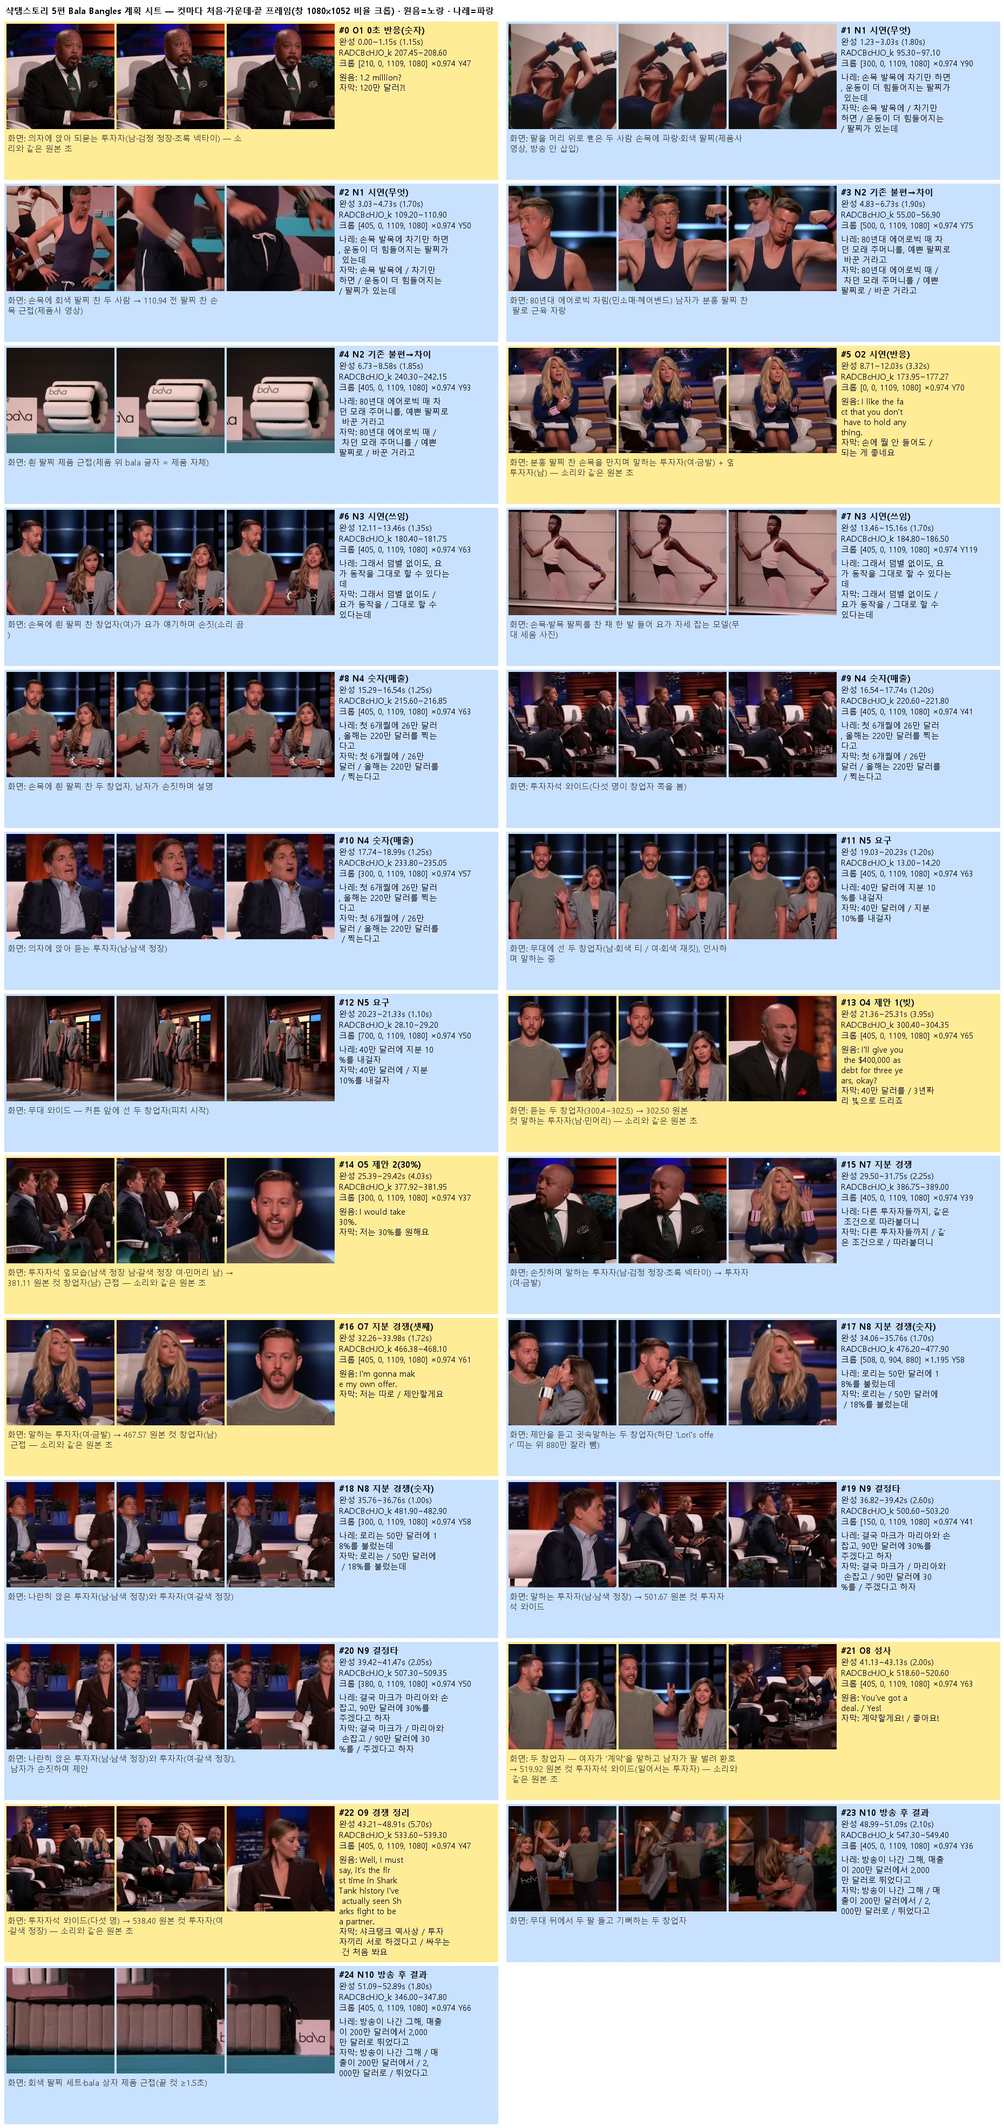
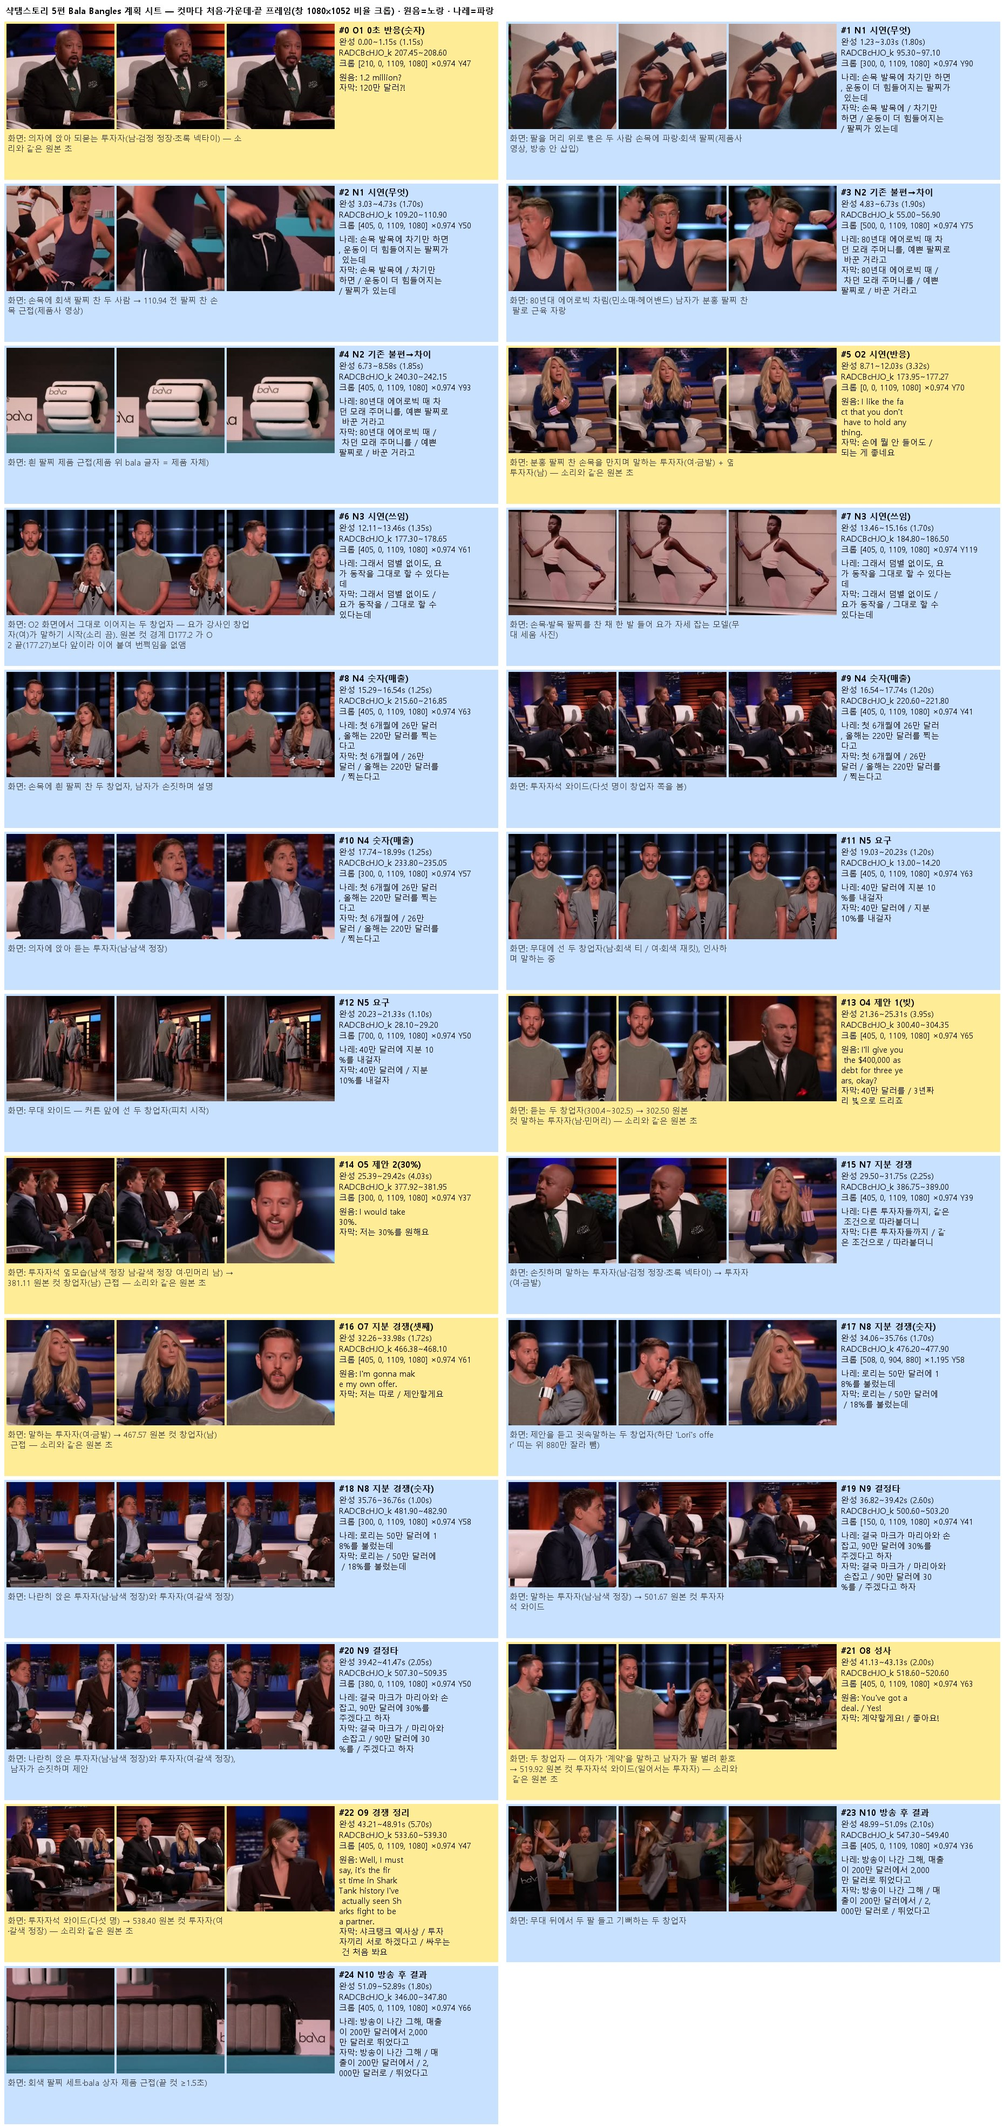
샥탬스토리 5편 Bala Bangles 렌더 1판 — 지훈 speed 1.1(원 8.52자/초), O2 끝 번쩍임→다음 컷 이어붙임, 돈 이모지 얼굴 피함, 원리서 §9 두 줄 (관제 097)
Claude-Session: https://claude.ai/code/session_01H2Q2DLBQbMaeW9JF4tgzZW

Changed region(s): [[0.0, 0.2497, 0.343, 0.3122]]

diff --git a/channel/foreignshowshow/5편_BalaBangles/plan/build_plan.py b/channel/foreignshowshow/5편_BalaBangles/plan/build_plan.py
@@ -57,7 +57,7 @@ LINES = [
     {"id": "N3", "fn": "시연(쓰임)", "kind": "tts", "text": "그래서 덤벨 없이도, 요가 동작을 그대로 할 수 있다는데",
      "tts": "그래서 덤벨 없이도, 요가 동작을 그대로 할 수 있다는데",
      "caps": ["그래서 덤벨 없이도", "요가 동작을", "그대로 할 수 있다는데"], "facts": ["f5"],
-     "shots": [("RAD", 180.40, 1.35, cx(FULL, 405), "손목에 흰 팔찌 찬 창업자(여)가 요가 얘기하며 손짓(소리 끔)"),
+     "shots": [("RAD", 177.30, 1.35, cx(FULL, 405), "O2 화면에서 그대로 이어지는 두 창업자 — 요가 강사인 창업자(여)가 말하기 시작(소리 끔). 원본 컷 경계 ≈177.2 가 O2 끝(177.27)보다 앞이라 이어 붙여 번쩍임을 없앰"),
                ("RAD", 184.80, 1.70, cx(FULL, 405), "손목·발목 팔찌를 찬 채 한 발 들어 요가 자세 잡는 모델(무대 세움 사진)")]},
     {"id": "N4", "fn": "숫자(매출)", "kind": "tts", "text": "첫 6개월에 26만 달러, 올해는 220만 달러를 찍는다고",
      "tts": "첫 육 개월에 이십육만 달러, 올해는 이백이십만 달러를 찍는다고",
@@ -333,8 +333,8 @@ def main():
            "effects": [
                {"line": "O1", "kind": "red_circle", "at": [610, 684], "size": 330, "stroke": 8, "t": [0.0, 1.25],
                 "why": "벤치 0초 빨간 원(투자자 얼굴) — 207.9초 크롭 x=210 프레임에서 얼굴 중심(창 610,250 → 완성 610,684)"},
-               {"line": "N9", "kind": "emoji", "emoji": "💸", "at": [540, 640], "size": 170, "t": [1.2, 3.4],
-                "why": "벤치 38.6~41.1초 날개 돈다발 — 마크(완성 x≈146)·마리아(x≈936) 얼굴 사이 배경 위, 얼굴 안 가림(B5)"}],
+               {"line": "N9", "kind": "emoji", "emoji": "💸", "at": [540, 640], "size": 170, "t": [2.3, 4.0],
+                "why": "벤치 38.6~41.1초 날개 돈다발 — N9 둘째 컷(마크 x≈146·마리아 x≈936) 동안만, 두 얼굴 사이 배경 위(B5). 1차 렌더에서 첫 컷(마크 가운데) 얼굴을 가려 시각 옮김"}],
            "check": {"cut_count": len(shots), "cut_median_plan": _median([s["dur"] for s in shots]), "first_cut": shots[0]["dur"],
                      "last_cut": shots[-1]["dur"], "max_scale": max(s["scale"] for s in shots),
                      "est_total_sec": total, "bench_total": 50.467, "same_src_close_B13": same_src_close(shots), "gap_lt3_any_order": within3_any(shots),

diff --git a/channel/foreignshowshow/칼카피_원리.md b/channel/foreignshowshow/칼카피_원리.md
@@ -3,36 +3,60 @@
 > 사장님 2026-10-18: "대충하지 말고 칼카피 잘해서 **원리 다 적어놓고 계속 쌓으면서** 다음 편 만들 때도 동일하게 축적해서 **우리 자산으로** 만들면서 하는 거야."
 > 규칙: ① 원리는 **실측 근거(편 id·시각·숫자)**와 같이 적는다 — 느낌 금지 ② 기계가 읽는 값은 `tools/calcopy/shark/rules.json`(렌더·검사가 읽는 주인)에, 이 문서는 "왜·어떻게"를 ③ 편을 만들 때마다 §9 '편마다 배운 것'에 쌓고, 확인된 것은 해당 절로 올린다(그 자리를 고친다, 덧붙이기만 하지 않는다) ④ 다음 편은 이 문서 + rules.json 으로 만든다(편마다 새로 정하지 않는다).
 > 검사: `tools/calcopy/shark/compare_bench.py`(벤치 나란히 기준표) — 기준표 칸 = 아래 절 번호.
-> 마지막 갱신: 2026-10-18 (뼈대 — 품질 칼카피 담당이 실측으로 채우는 중)
+> 마지막 갱신: 2026-10-18 04시 (품질 칼카피 담당: §0·2·3·4·5·6 실측으로 채움)
 
-## 0. 한 줄 요약 (채워지는 중)
-투자자의 놀란 얼굴(빨간 원+큰 반응 자막)로 0초에 결말을 던지고 → 핵심어만 색으로 터뜨린 큰 자막으로 시연·불편·숫자를 빠르게 → 원음 투자 경쟁 → 방송 후 결과로 닫는다.
+## 0. 한 줄 요약 — 확인됨(QMJ 10fps·30fps 실측 + 8편 256칸 판독, 10-18)
+0초에 놀란 투자자 얼굴(빨간 실선 원 + ×1.25 반응 자막)로 결말을 던지고 → **자막 한 칸마다 덩어리 하나를 형광색으로** 터뜨리며 시연·불편·숫자를 빠르게 → **약 5~6초마다 한 번 꾸밈(원·화살표·돈다발)이나 색 번쩍(+띠링)** 이 와우 포인트를 찍고 → 원음 투자 경쟁 → 방송 후 결과로 닫는다. 벤치 QMJ 와우(번쩍+꾸밈 등장, 0.5초 묶음) = 분당 15.4회.
+- 기계값 = `tools/calcopy/shark/rules.json`(한 곳). 검사 = `tools/calcopy/shark/compare_bench.py <벤치> <우리> <폴더> --tag N차`(기준표 10칸).
 
 ## 1. 박자(대본 흐름) — 확인됨(8편 판독·1편 줄 표)
 0~3초 결말 반응(원음, 빨간 원) → 시연(나레) → 기존 불편(나레+원음) → 숫자 → 지분 경쟁(원음 교대, 돈다발) → 방송 후 결과(나레, 확인된 사실만).
 - 나레 = 반말 전언체(~는데/~다고), 원음 = 영어 + 한국어 번역 자막. 벤치 나레 사실은 그대로 믿지 않는다(STORMBAG 정정 3건, 인수인계 §3-6).
 
-## 2. 시작 훅 (0~3초) — 실측 일부
-- 빨간 실선 원 0~2초 6/8편, 반지름 178~217·선 12~15(프리셋 실측). 대상 = 놀란 투자자 얼굴.
-- 반응 자막은 ×1.25 크게(6/8편 18칸). 색·번짐·등장 움직임: _채우는 중_
-- 효과음: _미측정_
+## 2. 시작 훅 (0~3초) — 확인됨
+- **빨간 실선 원**: QMJ 0.000~0.567(첫 컷 내내, 등장 움직임 없음·컷과 같이 사라짐) 중심 (500,676)·바깥 반지름 215·안 202(선 13)·색 [247,42,48]. 8편 중 6편.
+- **반응 자막 ×1.25**(85px): '뭐라고 ?!' 줄 전체 민트. 6/8편 18칸.
+- **둘째 컷 초록 아래 화살표**: QMJ 0.567~1.267, 131×197, 위아래 ±9px·0.6초 주기, 녹색 [12,250,4] 입체 테+번짐 — 제품(자루)을 가리킴. 8편 중 3편(QMJ·kmQ 0.0·2jJ 29.6).
+- 효과음: 0초 원·화살표 자리엔 따로 들리는 소리 판독 안 됨(스펙트로그램 QMJ 0.0~0.5 은 원본 넓은 소리) — 넣지 않음.
 
-## 3. 자막 꼴 — 확인됨(프리셋 실측)
-GmarketSansBold 68px, 1줄 잉크 929~988(창 가운데), 나레·번역 같은 꼴. 흰 글자 오른쪽 아래 옅은 그림자. 자막 바뀔 때 가로 흐림 약 2프레임.
+### 2-1. 제목 길이 — 확인됨(8편 제목 2줄 눈 판독 × 프리셋 size_cap)
+- 긴 줄 글자 수(공백 포함) 12 → 100.5px(QMJ) · 10~11 → 115~135px · 13·15 는 '산다 vs 안산다' 꼴(114). **규칙: 제목 줄당 최대 12자**(rules.json title.line_chars_max) — 넘으면 글자가 벤치보다 작아진다(우리 4편 88.5·6편 79.5px).
 
-## 4. 강조 낱말(와우 포인트) — _채우는 중_
-- 7색: 노랑[252,226,61]·주황[245,155,72]·빨강[235,78,79]·초록[66,252,81]·민트[64,248,240]·파랑[67,165,246]·분홍[242,98,146] + 같은 색 번짐 빛.
-- 어느 낱말을 고르나(숫자·핵심 명사·감탄…, 몇 %), 어느 색을 어디에: _8편 296칸 세는 중_
-- 예(QMJ): "3분내로"=민트 · "15L 물을 빨아들이는"=초록 · "허리가 작살이 나죠"=초록 · "물만 부으면"=분홍 · "2억 7천만원"=노랑.
+## 3. 자막 꼴 — 확인됨(프리셋 실측 + 전체 해상도 크롭)
+GmarketSansBold 68px, 1줄 잉크 928~987(창 가운데), 두 줄 895~953/963~1022, 나레·번역 같은 꼴.
+- 흰 글자: 오른쪽 아래 검정 그림자(dx3·dy3·흐림 6, α0.75). 색 글자: 같은 색 번짐(글자 밖 2~10px 평탄, 25~30px 에서 바탕 — 어두운 바탕 QMJ 0.25·18.85·24.45 거리별 색 투영) + 오른쪽 아래 2px 어두운 테.
+- **넘김 = 2프레임 가로 흐림**(QMJ 0.5~0.7·9.0~9.2 30fps): 컷 뒤 1프레임 옛 자막 그대로 → 옛 자막 가로 흐림 1프레임 → 새 자막 가로 흐림 1프레임 → 선명. compare_bench 잣대(잉크 급감)로 벤치 칸의 55%.
+- 우리 재현 = `shark/caption_style.caption_image`(QMJ 8.05 '이걸로 대체할 수 있다고' 잉크 928~987·폭 710 vs 우리 928~987·699).
 
-## 5. 효과 — _채우는 중_
-실선 원 6/8 · 점선 원 4/8 · 화살표(분홍·빨간 곡선·초록) · 날개 돈다발 3/8(투자 제안 줄) · 색 번쩍(초록·빨강·노랑) 8/8 편당 2~10회 컷 넘김. 언제·무엇에·크기·움직임: _10fps 실측 중_
+## 4. 강조 낱말(와우 포인트) — 확인됨(8편 256칸 판독 `preset/_hand/emph_read.json`)
+- **색 있는 칸 96%**(246/256), 한 칸에 색 덩어리 **하나** 97%(238/246) — 두 덩어리는 8칸뿐.
+- **줄 전체 한 색 39%**(96칸): 2~5자 칸은 34/34 전부, 6~7자 23/36, 9자 이상 29/169. 반응 한 마디(감탄·질문)는 38칸 중 34칸 줄 전체.
+- **부분 색 61%**(150칸): 덩어리 종류 동작(서술어·동사구) 73(49%) · 명사 40(27%) · 숫자 29(19%). 자리 뒤 75·앞 55·가운데 15. 색 글자 비율 중앙 0.58(p25 0.50·p75 0.70).
+- 숫자가 있으면 숫자 덩어리(단위·뒤 낱말 포함 '2억 7천만원에'·'4명의 투자자가'·'15kg').
+- **색 배정**: 7색 칸 수 초록 50·노랑 46·빨강 44·민트 42·주황 33·분홍 21·파랑 18. 앞 칸과 같은 색 6%(15/236) = 거의 안 겹침. 내용과 색의 규칙은 없음(같은 편 안에서도 고르게 돎).
+- 자동 = `shark/emph.py <편 폴더>` → 대본 줄마다 `emph[{cap,span,color}]`(사람이 고친 how=hand 칸은 그대로). 벤치 246칸에 돌린 대조: 전체/부분 판단 85% · 덩어리 70% 겹침 57%.
 
-## 6. 효과음·배경음 — _미측정_
+## 5. 효과 — 확인됨(QMJ 10fps·30fps, 8편 출현은 프리셋 channel_rules.effects)
+| 꾸밈 | QMJ 시각 | 모양·크기 | 움직임 | 박자(무엇에) | 8편 |
+|---|---|---|---|---|---|
+| 빨간 실선 원 | 0.000~0.567 | 지름 430·선 13 | 없음 | 0초 결말 반응 얼굴 | 6/8 |
+| 초록 아래 화살표 | 0.567~1.267 | 131×197 | 위아래 ±9px/0.6초, 끝 3프레임 줄며 사라짐 | 시연 대상(제품) | 3/8 |
+| 빨간 점선 원 | 9.3~11.6(컷 9.1 +0.2) | 반지름 ~320·선 ~22·점 ~8 | 시계 방향 ~120°/초, 대상 따라감 | 기존 불편(허리 아픈 삽질) | 4/8 |
+| 분홍 위 화살표(도트) | 12.017~13.82 | 151×269 검정 테 | 튀어나옴(폭 ×1.38→1.11→0.82→1.0)·끝 3프레임 | 무게 숫자 조각 | 2/8 |
+| 빨간 곡선 화살표 | 20.367~22.9(컷 넘어 유지) | 223×193 손그림 | 끝 쪽으로 28px 찌르기/0.37초 | 놓기만 하면 둑(해결) | 1/8 |
+| 날개 돈다발 💸(Noto) | 38.7~40.0 | 371×331 중심 (537,1189) | 튀어나옴·끝 2프레임 | 투자 제안 금액 줄(초록 번쩍과 같은 프레임) | 3/8 |
+| 색 번쩍 | 7.1 초·11.2 빨·28.1 초·38.7 초·44.4 빨·45.7 초·49.3 빨 | 창 안 전체 색 덮기 | 컷 프레임에 α0.55~0.59 → 0.45초에 0(선형) | 장면 넘김·와우(돈 제안·결정·거래 성공·통증·취소) | 8/8 편당 4~10회(분당 9.5) |
+- 우리 재현 = `shark/fx.py`(sprite 모양·pose 움직임·build_layer 한 층), 자리는 편마다 `재료.json effects[{line,kind,at,t}]`.
+
+## 6. 효과음·배경음 — 확인됨(사건 스펙트로그램 눈 판독 `fx_bench.py specev`, 20ms RMS)
+- **번쩍 직후 0.1~0.4초 '띠링'**(높이 있는 소리 2.6~5.5kHz 가로 줄 0.4~0.7초): QMJ 7.1·38.7·44.4, kmQ 4.7·15.0·32.6, 2jJ 23.4 — 본 11번 중 7번. compare_bench 잣대로 QMJ 번쩍 뒤 띠링 62%.
+- **빨간 곡선 화살표 = 내려가는 슬라이드 소리**(QMJ 20.4~20.9 휘는 줄). 우리 팩엔 슬라이드가 없어 휙(whoosh)으로 대신 — 다른 점(보고됨).
+- 우리 = 팩21_사장님 ding(0.42초 지속, 팩 중 지속이 벤치에 가장 가까움; 높이 9.3kHz 는 벤치보다 높음)·whoosh, 크기 = sfx_pack 칸 목표 크기.
+- **배경음 깔림 8/8**: 20ms RMS p10 이 중앙보다 6~10dB 아래(QMJ −13.6/−7.6) — 쉼에도 바닥이 안 꺼짐. 우리 1차 −12.3/−8.5 로 같은 꼴(BGM sweets 유지). 곡 종류: 짧은 음 높이 있는 소리가 규칙적으로(스펙트로그램 가로 점선) — 같은 곡 판정은 못 함.
 
 ## 7. 장면 고르기
 - 원음 줄 화면 = 같은 원본 시각에 말하는 본인(어긋남 0.1초 넘으면 고침) — 1편 확정.
-- 벤치는 실제 현장(홍수 등) 장면으로 실감을 낸다 — 방송 클립에 없으면 현장 1080p 재료를 따로 찾는다.
+- 벤치는 실제 현장(홍수 등) 장면으로 실감을 낸다(QMJ 5.85~7.35 물 찬 길에서 모래주머니) — 방송 클립에 없으면 현장 1080p 재료를 따로 찾는다(1편: Dan Robinson St. Louis 2015 VOUMOUQqr0Y 55·80초, 워터마크 크롭).
 
 ## 8. 소리 — 확정
 목표 −9.0 LUFS·최고점 ≤ −0.5 dBFS(벤치는 −7~−8·클리핑, 따라 깨뜨리지 않음). 성우 지훈(벤치 f0 116Hz 최근접).
@@ -42,7 +66,10 @@ GmarketSansBold 68px, 1줄 잉크 929~988(창 가운데), 나레·번역 같은 
 - 3편 DropStop: 원음 클립에 더빙 트랙이 섞임 → 영어 원음 트랙(140-7) 지정.
 - 1편 프리셋판(10-18 새벽): 제목 노랑 214~304/흰 322~408(벤치 211~304/318~407)·자막 68px 잉크 936~994(벤치 929~988) 맞음. 제목이 길면 글자가 작아진다 — 4편 88.5·6편 79.5px vs 벤치 100~135 → **제목은 줄당 글자 수를 벤치 범위로 짧게**(규칙 수치는 rules.json 에 재는 중).
 - 지훈 TTS 속도 1.25 = 원 말속도 9.46(1편)·9.42(2편)자/초로 벤치(7.7~8.8)보다 빠름 → atempo 0.85~0.87 로 늦춤(하한 0.85). 늦추기 폭을 줄이려면 TTS speed 를 낮춰 합성(5편부터 1.1 시험 → 실측으로 확정).
-- B13(±3초 재사용) 검사가 같은 원음 줄 안에서 방송 편집 그대로 앞으로 이어지는 컷을 재사용으로 잡는 오탐(2편) → 검사 수리 대상.
+- B13(±3초 재사용) 검사가 방송 편집 그대로 앞으로 이어지는 컷을 재사용으로 잡던 오탐(2편 8건) → **수리됨**: shark/check.forward_runs(화면에서 바로 이어지고 원본에서 앞으로만 가면 한 컷으로 묶음) → 2편 8→0, 되감아 재사용·떨어진 줄 재사용은 여전히 잡음(사보타주 2건).
 - 원음 컷 끝을 렌더러가 늘이면 원본 장면 경계를 넘어 남의 얼굴이 2~3프레임 번쩍 → 원음 컷 끝 = 원본 장면 경계 −0.1초(2편).
-- 원음 창 받아쓰기 검사는 영어를 한글로 옮겨 적어(예 "댓츠 프리티 쿨") 판정 불가 → 원음은 영어 받아쓰기로 검사.
+- 원음 창 받아쓰기 검사는 영어를 한글로 옮겨 적어(예 "댓츠 프리티 쿨") 판정 불가 → **수리됨**: shark/check 영어 요청문(EN_ASR_PROMPT)·2모델·대본 en 과 낱말 일치 ≥50%(orig_match) — 6편 영어 받아쓰기 6줄 95~100% ○.
 - 4편 Spikeball: 짧은 쉼(0.137초)에 말 꼬리가 섞이면 쉼 늘리기가 말소리를 반복 → 엔진 수리(75d27994d).
+- 5편 Bala(10-18): 지훈 TTS speed 1.1 = 원 말속도 8.52자/초(1.25 의 9.4 대비 −9%) — 목표 7.1 이면 여전히 atempo 하한 0.85 에 걸려 출력 7.62자/초. 0.85 안 걸리게 하려면 speed ≈1.0(추정, 미측정).
+- 5편: 원음 줄 끝이 원본 장면 경계에 붙으면(말 꼬리가 경계까지 감) 줄 사이 gap 0.08 늘임이 다음 장면 2프레임을 보임 → 다음 나레 줄 첫 컷을 같은 원본 시각부터 이어 붙여(무음) 번쩍임을 이음으로 바꿈 + 대본 render.gap 0.
+- 6편 LARQ(10-18): 원음 줄 끝 컷을 렌더러가 줄 사이(gap 0.08)만큼 늘여 다음 원본 샷이 1~2프레임 비침(L1 101.967·L6 177.877·L11 440.437초 경계, 30fps 프레임차로 실측). 원음 끝을 당기면 말끝이 잘림(L1 101.85 → 'Shark' 까지만) → **대본 render.gap 0.03** + 원음 안 컷 경계는 실측 경계 ±0.012초로 건너뜀. 원음 자막은 cap_at(쉼 경계에 맞춘 낱말 시각).

diff --git a/channel/foreignshowshow/5편_BalaBangles/plan/계획.md b/channel/foreignshowshow/5편_BalaBangles/plan/계획.md
@@ -5,7 +5,7 @@
 - 접촉 시트: `plan/계획_시트.jpg` (컷마다 처음·가운데·끝, 창 1080x1052 비율 크롭)
 - 길이 추정 52.79초(7.1자/초) · render --plan 8.4자/초 추정은 work/plan/컷표.md · 벤치 50.47초
 - 컷 25개 · 실제 컷(원본 편집 경계 포함) 중앙 1.32초(벤치 1.27) · 첫 컷 1.15 · 끝 컷 1.8 · 확대 최대 ×1.195
-- B13 같은 소스 3초 안 재사용 [] / 순서 무관 3초 안 [] · 번쩍 조각(<0.3초) [] · 프레임 평균 Y 최저 36
+- B13 같은 소스 3초 안 재사용 [] / 순서 무관 3초 안 [[5, 6, 0.03]] · 번쩍 조각(<0.3초) [] · 프레임 평균 Y 최저 36
 - 벤치 나레 3어절 겹침 [] · 자막 조각 최대 13자
 
 ## 줄 ↔ 컷
@@ -18,7 +18,7 @@
 | N2 | 80년대 에어로빅 때 차던 모래 주머니를, 예쁜 팔찌로 바꾼 거라고 | 55.0~56.9 [500, 0, 1109, 1080] ×0.974 Y75 | 80년대 에어로빅 차림(민소매·헤어밴드) 남자가 분홍 팔찌 찬 팔로 근육 자랑 |
 |  | 〃 | 240.3~242.15 [405, 0, 1109, 1080] ×0.974 Y93 | 흰 팔찌 제품 근접(제품 위 bala 글자 = 제품 자체) |
 | O2 | I like the fact that you don't have to hold anything. | 173.95~177.27 [0, 0, 1109, 1080] ×0.974 Y70 | 분홍 팔찌 찬 손목을 만지며 말하는 투자자(여·금발) + 옆 투자자(남) — 소리와 같은 원본 초 |
-| N3 | 그래서 덤벨 없이도, 요가 동작을 그대로 할 수 있다는데 | 180.4~181.75 [405, 0, 1109, 1080] ×0.974 Y63 | 손목에 흰 팔찌 찬 창업자(여)가 요가 얘기하며 손짓(소리 끔) |
+| N3 | 그래서 덤벨 없이도, 요가 동작을 그대로 할 수 있다는데 | 177.3~178.65 [405, 0, 1109, 1080] ×0.974 Y61 | O2 화면에서 그대로 이어지는 두 창업자 — 요가 강사인 창업자(여)가 말하기 시작(소리 끔). 원본 컷 경계 ≈177.2 가 O2 끝(177.27)보다 앞이라 이어 붙여 번쩍임을 없앰 |
 |  | 〃 | 184.8~186.5 [405, 0, 1109, 1080] ×0.974 Y119 | 손목·발목 팔찌를 찬 채 한 발 들어 요가 자세 잡는 모델(무대 세움 사진) |
 | N4 | 첫 6개월에 26만 달러, 올해는 220만 달러를 찍는다고 | 215.6~216.85 [405, 0, 1109, 1080] ×0.974 Y63 | 손목에 흰 팔찌 찬 두 창업자, 남자가 손짓하며 설명 |
 |  | 〃 | 220.6~221.8 [405, 0, 1109, 1080] ×0.974 Y41 | 투자자석 와이드(다섯 명이 창업자 쪽을 봄) |
@@ -46,5 +46,5 @@
 - N9: 날개 돈다발 이모지(90만 달러) (벤치 38.6~41.1초)
 - 자막: 흰 글자+검정 테두리, 핵심어 형광(민트·초록·빨강·분홍) (벤치 전 구간)
 - 좌표 적은 것(렌더러가 그림): O1 red_circle at [610, 684] size 330 — 벤치 0초 빨간 원(투자자 얼굴) — 207.9초 크롭 x=210 프레임에서 얼굴 중심(창 610,250 → 완성 610,684)
-- 좌표 적은 것(렌더러가 그림): N9 emoji at [540, 640] size 170 — 벤치 38.6~41.1초 날개 돈다발 — 마크(완성 x≈146)·마리아(x≈936) 얼굴 사이 배경 위, 얼굴 안 가림(B5)
+- 좌표 적은 것(렌더러가 그림): N9 emoji at [540, 640] size 170 — 벤치 38.6~41.1초 날개 돈다발 — N9 둘째 컷(마크 x≈146·마리아 x≈936) 동안만, 두 얼굴 사이 배경 위(B5). 1차 렌더에서 첫 컷(마크 가운데) 얼굴을 가려 시각 옮김
 - 빨간 점선 원·분홍 화살표 = 렌더러(narr_video.overlay_png)에 없는 꼴 → 엔진 요청(못 그림).
